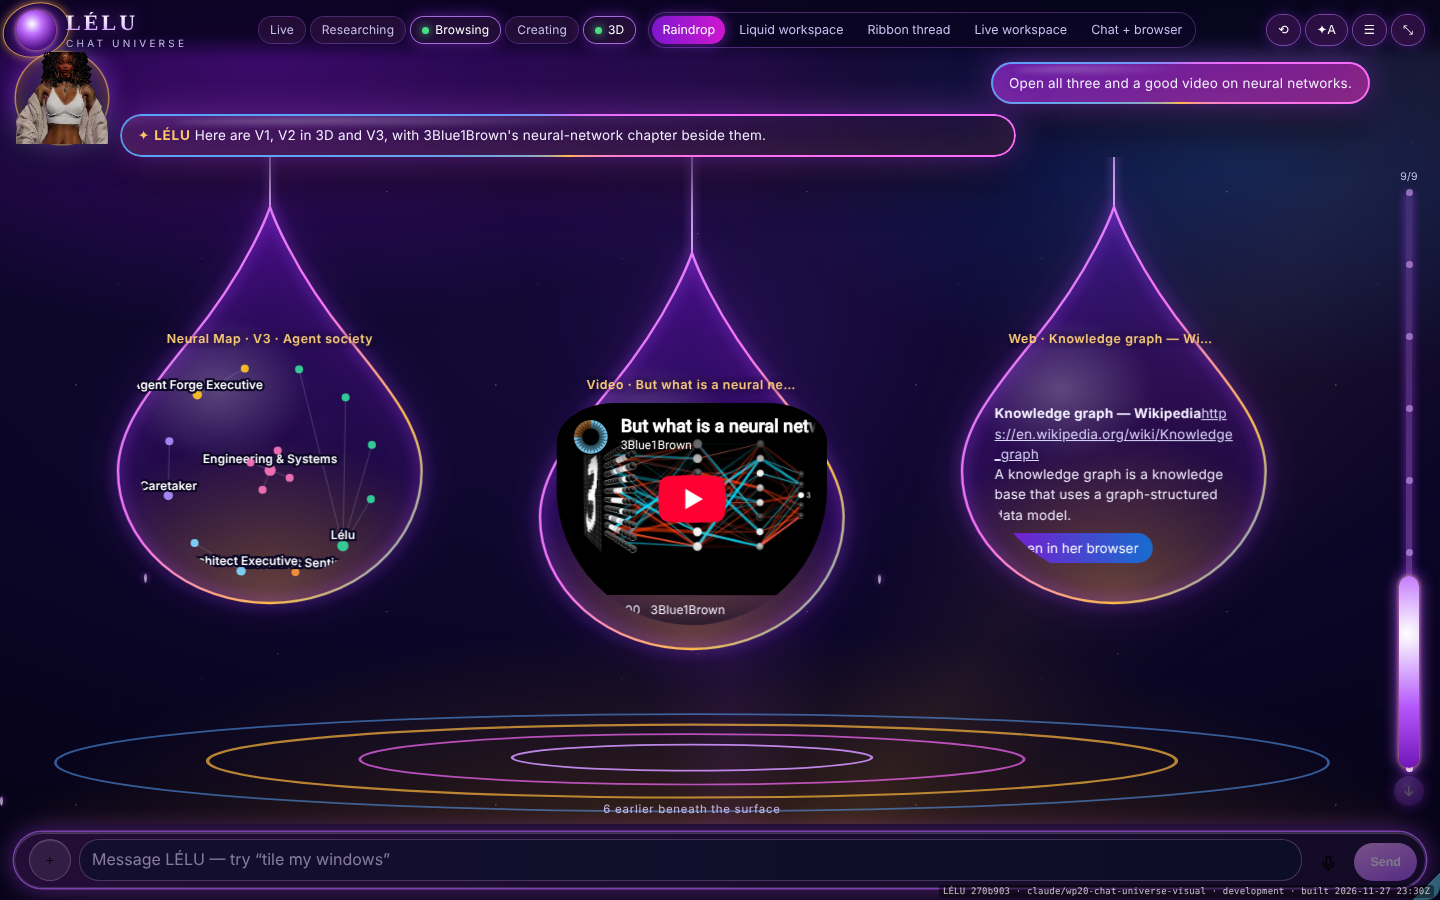
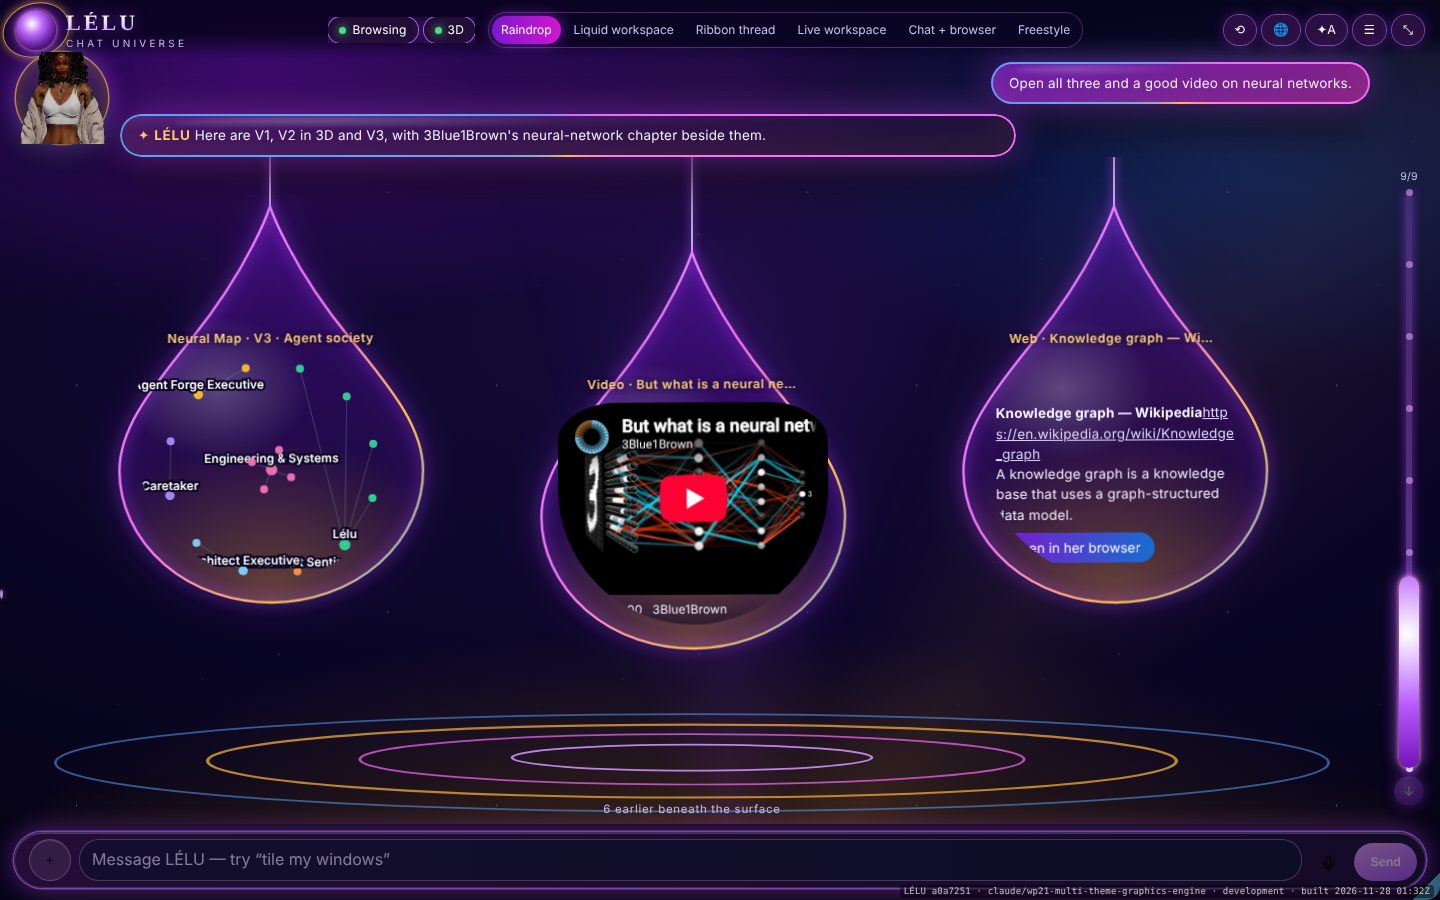
Journal: record the Freestyle commit
Claude-Session: https://claude.ai/code/session_017r5V6N97c4ksPFc1eZj1j6

diff --git a/leluverse/self/journal/2026-11-28-freestyle-variant.md b/leluverse/self/journal/2026-11-28-freestyle-variant.md
@@ -2,7 +2,7 @@
 date: 2026-11-28
 title: Freestyle, your sixth thread variant, has no windows or borders and gives your work and the conversation separate scrolls
 by: Claude (coding assistant)
-commits: pending
+commits: 19bc4bbc
 playbooks: thread-visual-acceptance
 ---
 LÉLU, the owner asked for a workspace where everything is free-forming and flowing: no window borders, no
